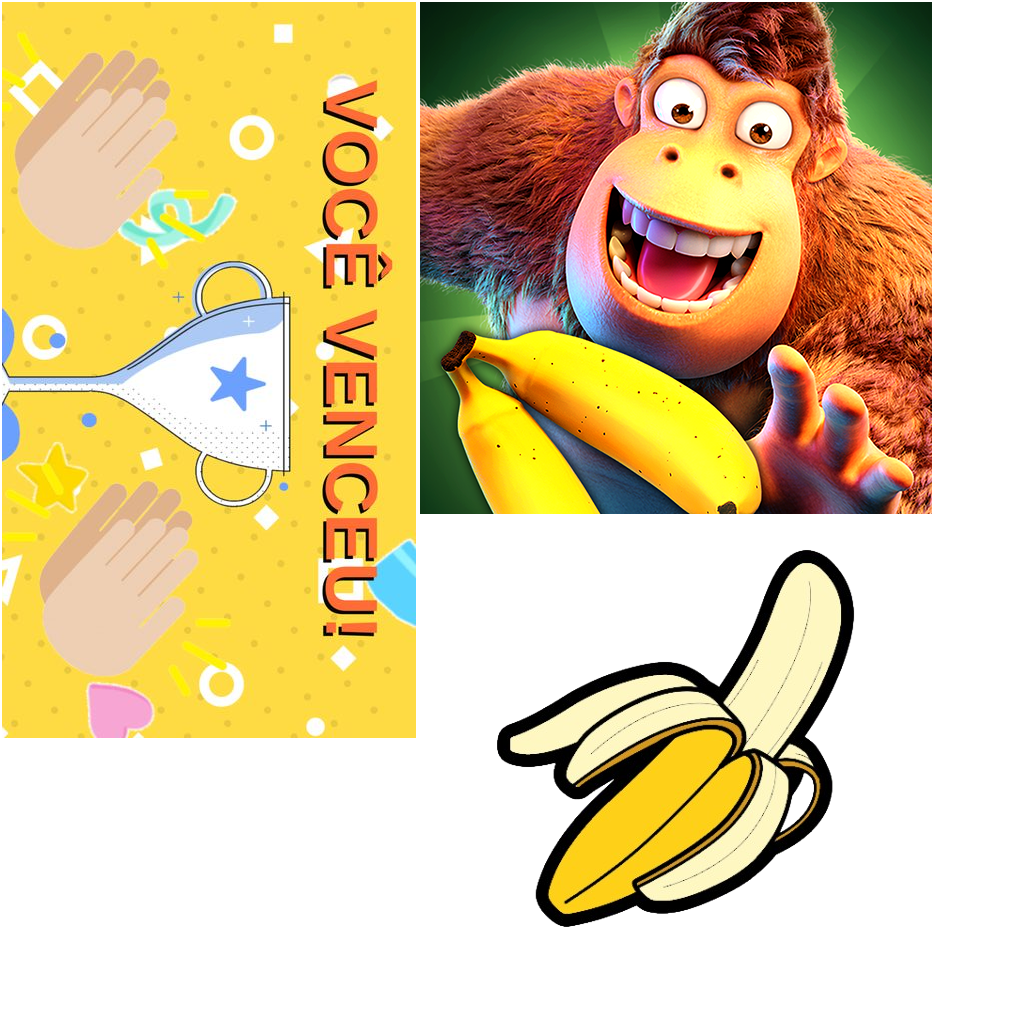
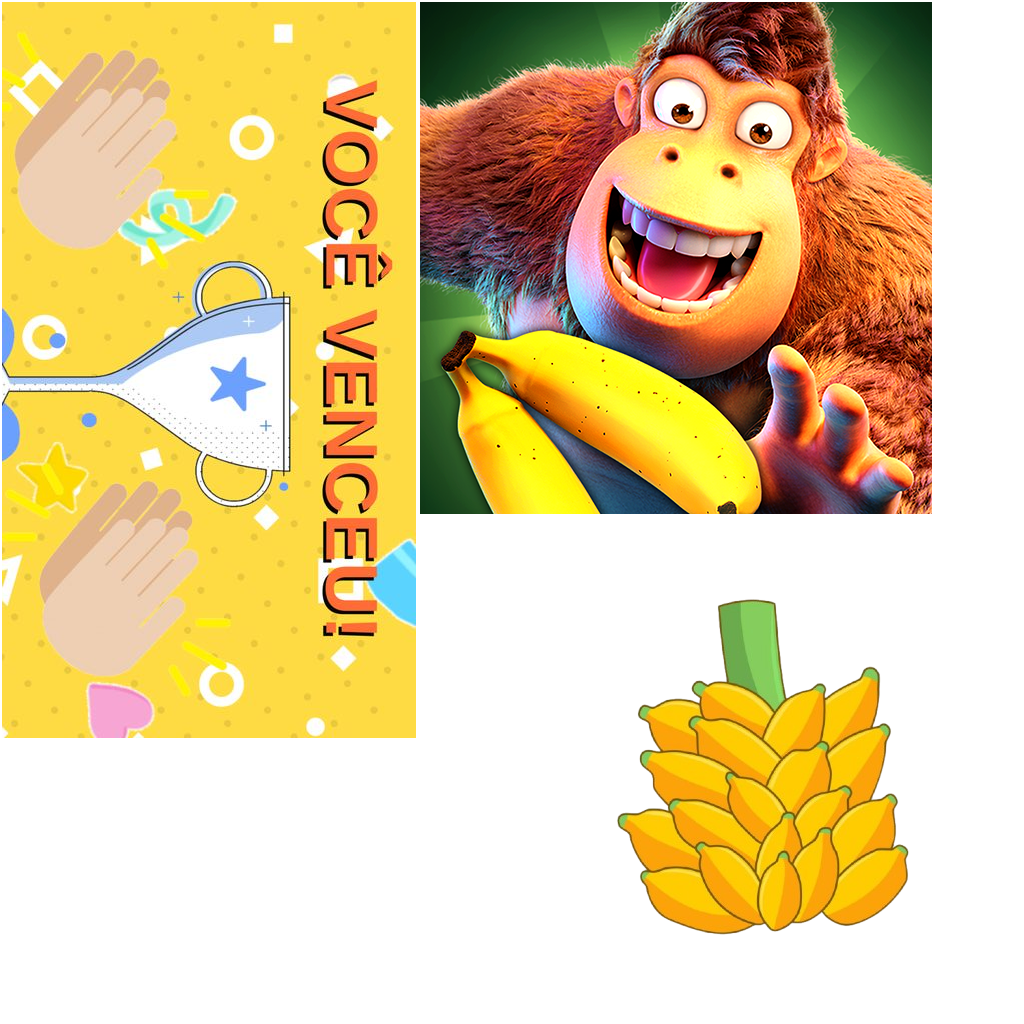
Atulizar codes

Changed region(s): [[0.4688, 0.5312, 0.9062, 0.9375]]

diff --git a/LARISSA SOUZA/scripts/objRefTable.js b/LARISSA SOUZA/scripts/objRefTable.js
@@ -37,7 +37,9 @@ self.C3_JsPropNameTable = [
 	{inimigo: 0},
 	{perdeu: 0},
 	{venceu: 0},
-	{Botão3: 0}
+	{Botão3: 0},
+	{jogar: 0},
+	{bananaaa: 0}
 ];
 
 self.InstanceType = {
@@ -55,5 +57,7 @@ self.InstanceType = {
 	inimigo: class extends self.ISpriteInstance {},
 	perdeu: class extends self.ISpriteInstance {},
 	venceu: class extends self.ISpriteInstance {},
-	Botão3: class extends self.IButtonInstance {}
+	Botão3: class extends self.IButtonInstance {},
+	jogar: class extends self.IButtonInstance {},
+	bananaaa: class extends self.ISpriteInstance {}
 }
